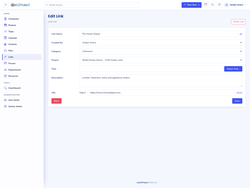
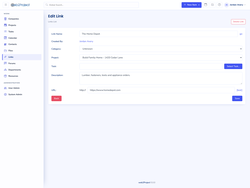
5.0.0 release notes: Files, Links and Forums security fixes
Adds GHSA-pw38-j7w8-hvpc, GHSA-5748-w3cw-m24j and GHSA-g2p5-mjxx-34ff,
the file edit page escaping, link owners and the file delete fix to the
5.0.0 notes, with an upgrade note on the new project checks and on
looking for file records whose stored name holds a path. The test count
is now 597. The Links page says Created By is shown, not chosen, and the
Links add/edit screenshot is retaken to match.

The site metrics are re-measured with phploc: 66,744 lines.

diff --git a/_release-notes/5.0.0.md b/_release-notes/5.0.0.md
@@ -16,6 +16,7 @@ release_date: 2026-11-23
         <li>Bootstrap 5.3 is the only theme. The w2p-snowball and wps-redmond themes and theme selection are gone.</li>
         <li>Removed: the 66 functions in <code>includes/deprecated_functions.php</code> and the 37 deprecated class aliases (<code>CAppUI</code>, <code>CDate</code>, <code>DBQuery</code> and others), PDF output, file check-in/check-out, file versions and file e-mail notifications, and the contact self-update request. Add On modules that still use any of these will stop with errors.</li>
         <li><code>index.php</code> only loads a module's pages and runs its <code>dosql</code> and <code>do_*</code> handlers when the module is active and the user can access it, and every request that changes data must carry the <code>__nonce</code> form token.</li>
+        <li>Files, links and forums can only be added to, or moved into, a project and task the user can see, and a file is only downloaded by a user who can see its project and task. Add On modules that save <code>CFile</code>, <code>CLink</code> or <code>CForum</code> objects get the same checks. A link's owner is always the user who created it. After upgrading, look for file records whose stored name holds a path (the query is in <a href="https://github.com/web2project/web2project/security/advisories/GHSA-pw38-j7w8-hvpc">GHSA-pw38-j7w8-hvpc</a>); from 5.0.0 on they can be deleted safely.</li>
         <li>Translation files are read as data instead of being run with <code>eval()</code>.</li>
         <li>See <a href="/docs/installation.html#upgrading-to-v50">Upgrading to v5.0</a> and <a href="/docs/upgrading-modules-to-5.html">Updating Add On Modules for v5.0</a> before you upgrade.</li>
     </ul>
@@ -64,8 +65,11 @@ release_date: 2026-11-23
   * Bulk task actions, task saves and new tasks check the task and its project ([GHSA-48ww-5h48-vwx9](https://github.com/web2project/web2project/security/advisories/GHSA-48ww-5h48-vwx9), reported by M4ru-0x03); moving a task to another project checks permissions first ([#472](https://github.com/web2project/web2project/issues/472))
   * Task logs: edit and delete rights are checked against the stored log, not the posted creator ([GHSA-xcpx-p68j-gm7w](https://github.com/web2project/web2project/security/advisories/GHSA-xcpx-p68j-gm7w))
   * Forums: watches and watch e-mails only for forums the user can read ([GHSA-qp43-fcwc-p3j3](https://github.com/web2project/web2project/security/advisories/GHSA-qp43-fcwc-p3j3)); a topic is only shown, replied to or posted in after a check on its own forum and project; only a message's author or an administrator can edit or delete it
+  * Files: the name a file is stored under on disk is set by web2project and is always a plain file name. Before, a user who could add or edit files could point a file at any file on the server, such as `includes/config.php`, and download it, copy it into a normal file, or have it removed when an administrator deleted that file. Saving a file now keeps the fields the form doesn't edit ([GHSA-pw38-j7w8-hvpc](https://github.com/web2project/web2project/security/advisories/GHSA-pw38-j7w8-hvpc), reported by M4ru-0x03)
+  * Files, links and forums can only be added to, or moved into, a project and task the user can see ([GHSA-5748-w3cw-m24j](https://github.com/web2project/web2project/security/advisories/GHSA-5748-w3cw-m24j), reported by M4ru-0x03)
+  * Files and links opened by id check their project and task, so `fileviewer.php` no longer serves files from projects or tasks the user is denied ([GHSA-g2p5-mjxx-34ff](https://github.com/web2project/web2project/security/advisories/GHSA-g2p5-mjxx-34ff))
   * SQL injection: search terms are quoted in every LIKE clause, so `%` and `_` now match literally ([GHSA-98hj-h8rw-w56m](https://github.com/web2project/web2project/security/advisories/GHSA-98hj-h8rw-w56m), reported by Yescrypt; [GHSA-mj5m-6227-52vv](https://github.com/web2project/web2project/security/advisories/GHSA-mj5m-6227-52vv), reported by p-w); also fixed in preferences, the Users list letter filter, sort parameters, SmartSearch, the public sign-up e-mail check, the contacts duplicate check ([#402](https://github.com/web2project/web2project/issues/402)) and bound strings put into SQL
-  * Stored XSS: names are escaped in list tables, view pages, edit forms, calendars and task lists ([#546](https://github.com/web2project/web2project/issues/546)), forum titles, bodies and author names ([#533](https://github.com/web2project/web2project/issues/533)), the selector pop-up and drop-down labels, SmartSearch results, and URL fields ([#401](https://github.com/web2project/web2project/issues/401)); tooltips show their text as text, so a name holding markup no longer runs when hovered; project colours must be six-digit hex codes
+  * Stored XSS: names are escaped in list tables, view pages, edit forms, calendars and task lists ([#546](https://github.com/web2project/web2project/issues/546)), forum titles, bodies and author names ([#533](https://github.com/web2project/web2project/issues/533)), the selector pop-up and drop-down labels, SmartSearch results, URL fields ([#401](https://github.com/web2project/web2project/issues/401)), and an uploaded file's name and type on the file edit page; tooltips show their text as text, so a name holding markup no longer runs when hovered; project colours must be six-digit hex codes
   * Reflected XSS: the Projects Gantt tab builds its chart URL from numbers and flags only ([#542](https://github.com/web2project/web2project/issues/542))
   * CSRF: every request that changes data needs the session's form token, including logout, ending sessions and module admin links ([#400](https://github.com/web2project/web2project/issues/400))
   * `index.php` only loads pages and runs `dosql`/`do_*` handlers of active modules the user can access ([#463](https://github.com/web2project/web2project/issues/463), [#547](https://github.com/web2project/web2project/issues/547)), and refuses unknown or malformed handlers
@@ -73,7 +77,7 @@ release_date: 2026-11-23
   * Passwords: the current password is checked with `password_verify()`, saving a user no longer re-hashes it ([#386](https://github.com/web2project/web2project/issues/386)), legacy MD5 hashes are compared with `hash_equals()` ([#474](https://github.com/web2project/web2project/issues/474)), and the sign-up e-mail no longer contains the password
   * Calendar feeds use random tokens and stop for users who can't log in ([#436](https://github.com/web2project/web2project/issues/436))
   * Translation files are parsed instead of run with `eval()` ([#313](https://github.com/web2project/web2project/issues/313)), and the translation editor only writes files for installed modules and languages and requires the form token
-  * Smaller fixes: the Active Sessions tab checks the session id, `CAppUI::isActiveModule()` no longer builds SQL from the module name ([#457](https://github.com/web2project/web2project/issues/457)), the inactive tasks tab and History list filter by permission in SQL ([#476](https://github.com/web2project/web2project/issues/476), [#477](https://github.com/web2project/web2project/issues/477)), the Files form stops including the HelpDesk add-on's config.php ([#466](https://github.com/web2project/web2project/issues/466)), and `w2PgetParam()` drops a filter that never matched ([#403](https://github.com/web2project/web2project/issues/403))
+  * Smaller fixes: the Active Sessions tab checks the session id, `CAppUI::isActiveModule()` no longer builds SQL from the module name ([#457](https://github.com/web2project/web2project/issues/457)), the inactive tasks tab and History list filter by permission in SQL ([#476](https://github.com/web2project/web2project/issues/476), [#477](https://github.com/web2project/web2project/issues/477)), the Files form stops including the HelpDesk add-on's config.php ([#466](https://github.com/web2project/web2project/issues/466)), a link's owner is the user who created it (the link form no longer offers a list of users), and `w2PgetParam()` drops a filter that never matched ([#403](https://github.com/web2project/web2project/issues/403))
 * Users, permissions and LDAP
   * On new installs, the Project worker role has Access, View, Add and Edit on the non-admin modules; before, it couldn't open any module
   * Login names are unique (migration 077) ([#438](https://github.com/web2project/web2project/issues/438)); sign-up stores the name it checked
@@ -109,6 +113,7 @@ release_date: 2026-11-23
   * Date-only values in list columns stay on their day, and text in a date column no longer causes a TypeError; `getWeekOfYear()` works on PHP 8
 * Files
   * Page links, project and category filters and the company Files tab work together; folders can't be moved into themselves and delete through the Files module ([#409](https://github.com/web2project/web2project/issues/409), [#410](https://github.com/web2project/web2project/issues/410), [#432](https://github.com/web2project/web2project/issues/432)); a duplicated file keeps its project and folder ([#411](https://github.com/web2project/web2project/issues/411))
+  * Deleting a file no longer saves it again as a new record that points at the removed file
 * Mail and forums
   * Queued mail is sent, Cc/Bcc work ([#424](https://github.com/web2project/web2project/issues/424), [#425](https://github.com/web2project/web2project/issues/425)), accented subjects are no longer blank ([#523](https://github.com/web2project/web2project/issues/523)), and queuescanner.php no longer crashes on contacts ([#399](https://github.com/web2project/web2project/issues/399))
   * Forum BBCode renders on PHP 8 ([#531](https://github.com/web2project/web2project/issues/531)), the reply form shows the message being replied to ([#429](https://github.com/web2project/web2project/issues/429)), and message counts are kept
@@ -132,7 +137,7 @@ release_date: 2026-11-23
 * New helpers for Add On modules: `w2p_Database_Query::quoteLike()`, `w2PsafeOrderBy()`, `CAppUI::restoreObject($object)`, and `ListTable::addDividers()` for any `*_project` key ([#560](https://github.com/web2project/web2project/issues/560))
 * Support links point to GitHub Discussions and the issue tracker instead of the old forums and Mantis
 * Code cleanup: PHPDoc across all classes, modules and tests; removed commented-out and unreachable code; valid HTML5 with no deprecated tags; a PHPStan level 10 configuration and fixes
-* Unit tests run on PHPUnit 11.5, including the include tests, with new tests for the fixes above. They use their own database, built as a fresh install with `php unit_tests/build-test-db.php`, and never the one in `includes/config.php`. All 588 tests pass (120 are skipped or incomplete).
+* Unit tests run on PHPUnit 11.5, including the include tests, with new tests for the fixes above. They use their own database, built as a fresh install with `php unit_tests/build-test-db.php`, and never the one in `includes/config.php`. All 597 tests pass (120 are skipped or incomplete).
 * Version set to 5.0.0 (Composer package 5.0)
 
 ## Open/Known Issues
@@ -149,19 +154,19 @@ release_date: 2026-11-23
 
 Measured with phploc 8.0.4, excluding `lib/` and `vendor/`.
 
-* Lines of Code: 66322 (11161 of comments, 55161 of code)
+* Lines of Code: 66744 (11292 of comments, 55452 of code)
 * Cyclomatic Complexity:
-  * Per Class: 19.40 (min: 1, max: 273)
-  * Per Method: 2.53 (min: 1, max: 68)
+  * Per Class: 19.64 (min: 1, max: 273)
+  * Per Method: 2.54 (min: 1, max: 68)
   * Per Line of Code: 0.26
 * Interfaces: 2
 * Traits: 0
-* Classes: 148 (143 Concrete, 5 Abstract)
+* Classes: 149 (144 Concrete, 5 Abstract)
   * Lines of Code/Class: 84
   * Class Constants: 16
-  * Methods: 1796 (53 static, 1743 non-static)
-    * Public: 1603
-    * Protected: 156
+  * Methods: 1820 (55 static, 1765 non-static)
+    * Public: 1622
+    * Protected: 161
     * Private: 37
   * Lines of Code/Method: 6
 * Functions: 224 (207 named, 17 anonymous)

diff --git a/_docs/unit-tests.md b/_docs/unit-tests.md
@@ -52,7 +52,7 @@ To run one file or folder, add its path:
 
 This takes a little while and gives you the results on your system. The names of the tests should be pretty self-explanatory, and any errors that come up give you details on where to look.
 
-At the v5.0.0 release the suite runs 588 tests (1759 assertions) with no errors or failures; 120 are skipped or marked incomplete. A change shouldn't add an error or failure. See the [release notes](/release-notes/5.0.0.html).
+At the v5.0.0 release the suite runs 597 tests (1796 assertions) with no errors or failures; 120 are skipped or marked incomplete. A change shouldn't add an error or failure. See the [release notes](/release-notes/5.0.0.html).
 
 ## Test Structure
 

diff --git a/_modules/links.md b/_modules/links.md
@@ -46,7 +46,7 @@ To add a new link, choose "New Link" from the "New Item" menu, or use the "New l
 The form has these fields:
 
 * **Link Name**: what is shown in the list
-* **Created By**: the link's owner
+* **Created By**: the user who added the link. It is shown, not chosen.
 * **Category**: puts the link on one of the list's tabs
 * **Project** and **Task**: optional; attach the link to a project and one of its tasks
 * **Description**
